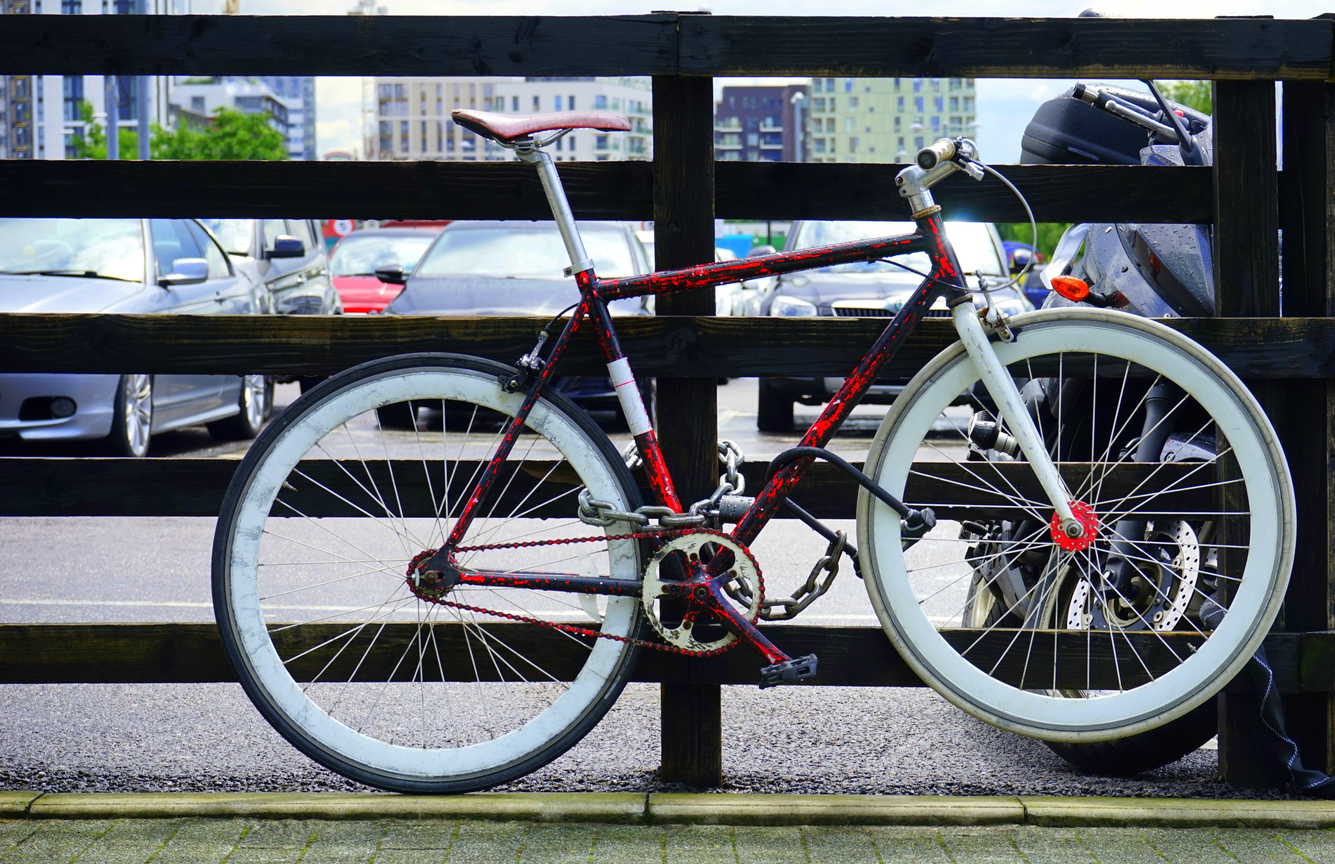
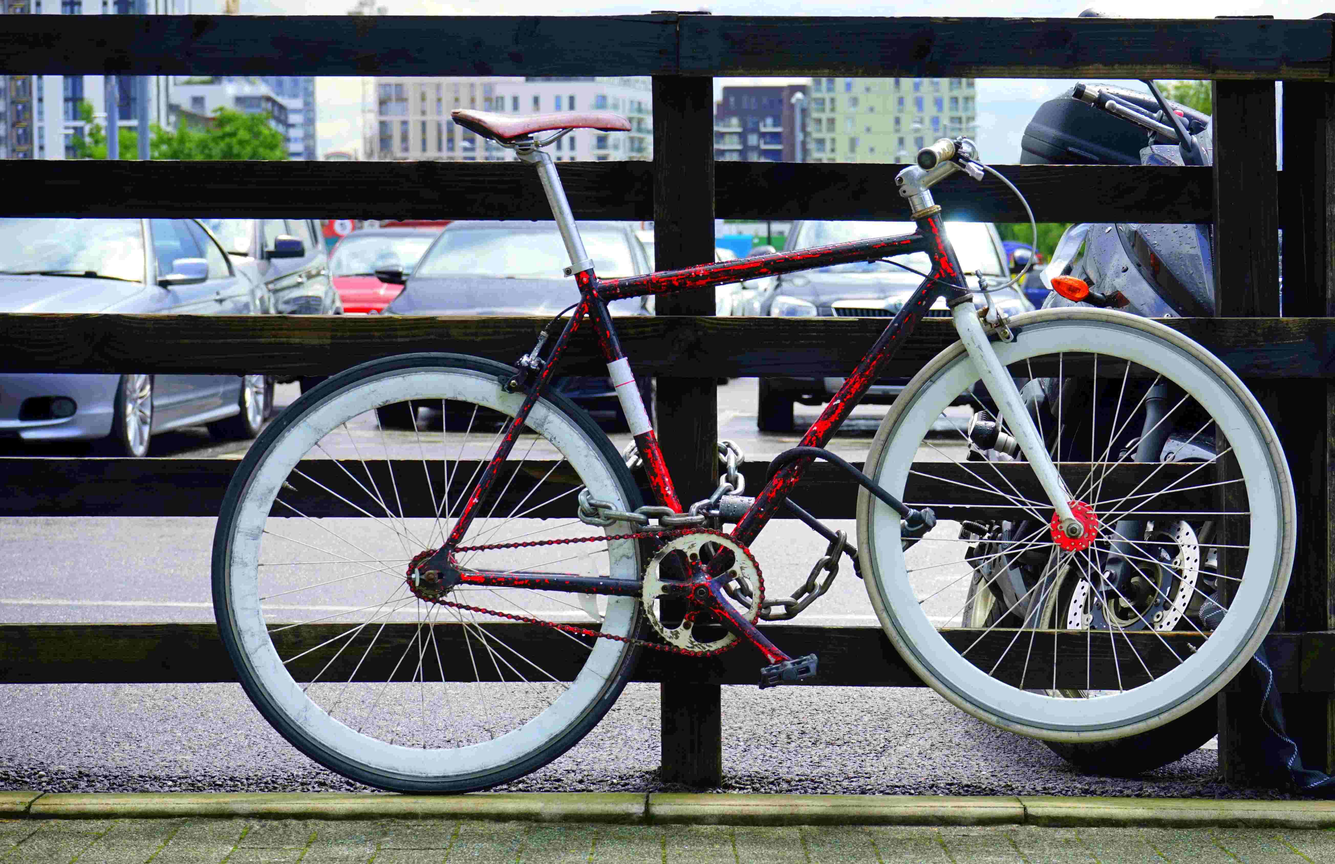
Photo size reduced & connect section modified

diff --git a/Cycle WebPage/index.html b/Cycle WebPage/index.html
@@ -28,7 +28,7 @@
         <h1 class="h-primary">Find your perfect match</h1>
         <p>Lightweight and superior construction for a perfect fit and effortless pedaling. </p>
         <p>Bikes you won’t believe exist. </p>
-        <button class="btn">Order Cyclew</button>
+        <button class="btn">Order Now</button>
     </section>
 
     <section id="Product-Services">
@@ -71,10 +71,10 @@
 
     </section>
 
-    <section id="Events">
+    <section>
         <h1 class="h-primary center">Connect With Us For Upcoming Events</h1>
         <div id="Events-box">
-            <form action="">
+            <form action="submit" class="Events">
                 <div class="form-group">
                     <label for="name">Name: </label>
                     <input type="text" name="name" id="name" placeholder="Enter your name">
@@ -89,7 +89,7 @@
                 </div>
                 <div class="form-group">
                     <label for="message">Message: </label>
-                    <textarea name="message" id="message" cols="30" rows="10" placeholder="Enter Tell Us about yourself"></textarea>
+                    <textarea name="message" id="message" cols="30" rows="10" placeholder="Tell Us about yourself"></textarea>
                 </div>
                 <button class="btn">Connect Me</button>
             </form>

diff --git a/Cycle WebPage/css/style.css b/Cycle WebPage/css/style.css
@@ -151,25 +151,29 @@ html{
 }
 
 
-#Events::before{
+#Events-box::before{
     content: "";
     position: absolute;
     width: 100%;
-    height: 100%;
+    height: 80%;
     z-index: -1;
     opacity: 0.5;
     background: url('/img/event2.jpg') no-repeat center center/cover;
-
-}
-#Events{
-    margin-top: -4px;
-}
-#Events-box{
     display: flex;
     justify-content: center;
     align-items: center;
     padding-bottom: 34px;
+
 }
+/* #Events{
+    margin-top: -4px;
+} */
+/* #Events-box{
+    display: flex;
+    justify-content: center;
+    align-items: center;
+    padding-bottom: 34px;
+} */
 #Events-box input, 
 #Events-box textarea{
     width: 100%;
@@ -189,6 +193,8 @@ input::placeholder, textarea::placeholder {
 
 #Events-box form{
     width: 40%;
+    margin: 0 auto;
+    padding: 20px 0;
 }
 
 #Events-box label{
